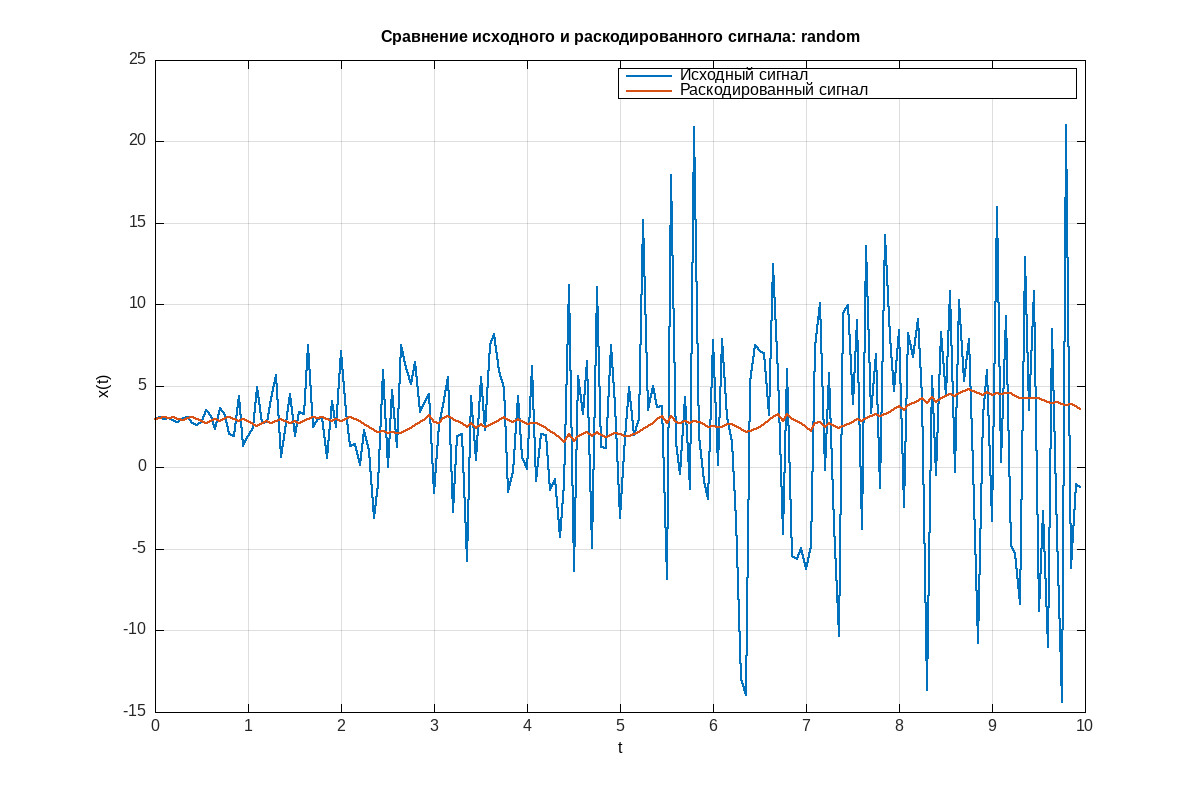
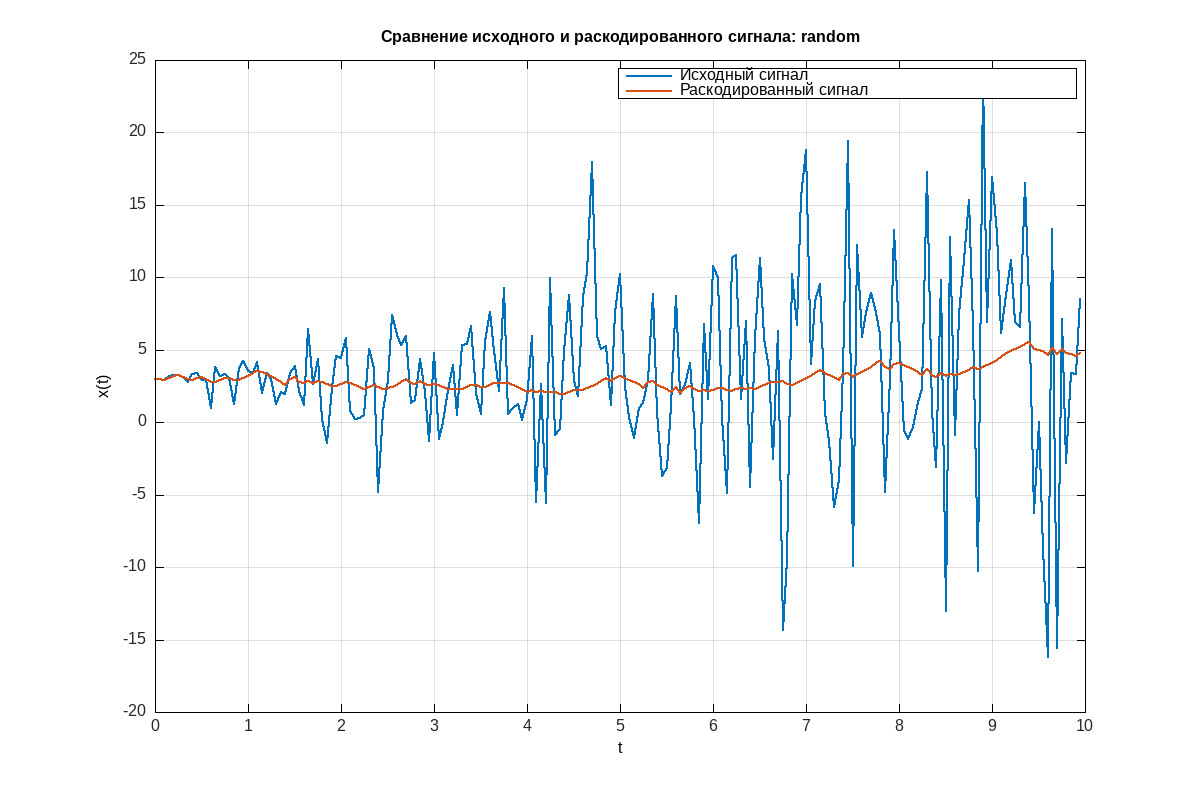
one sign is 1 bit

diff --git a/cpp/src/utils/decoder/decoder.cpp b/cpp/src/utils/decoder/decoder.cpp
@@ -14,50 +14,76 @@ Decoder::Decoder(
     : m_adaptive_config(a_adaptive_config),
     m_observer_config(a_observe_config){}
 
+std::int8_t Decoder::get_code(const EncodedData& data, const std::size_t index){
+    if (index >= data.code_count) {
+        throw std::out_of_range("Encoded code index is out of range");
+    }
+    const std::size_t byte_index = index / 8;
+    const std::size_t bit_offset = 7 - (index % 8);
+    if (byte_index >= data.codes.size()) {
+        throw std::invalid_argument("Packed codes contain fewer bytes than expected");
+    }
+    const std::uint8_t byte = data.codes[byte_index];
+    const bool positive = (byte & static_cast<std::uint8_t>(std::uint8_t{1} << bit_offset)) != 0;
+
+    return positive ? std::int8_t{1} : std::int8_t{-1};
+}
+
 [[nodiscard]] std::vector<double> Decoder::decode_grow_factor(const EncodedData& data) const{
+    const std::size_t expected_byte_count = (data.code_count + 7) / 8;
+    if (data.codes.size() != expected_byte_count) {
+        throw std::invalid_argument("Invalid packed codes size in decode_grow_factor");
+    }
     std::vector<double> result;
-    result.reserve(data.codes.size() + 1);
-    double cur = data.initial_value;
-    result.push_back(cur);
+    result.reserve(data.code_count + 1);
+    double current_value = data.initial_value;
+    result.push_back(current_value);
     AdaptiveStep step(m_adaptive_config);
-    for (const std::int8_t code: data.codes){
-        cur += static_cast<double>(code) * step.value();
-        result.push_back(cur);
+    for (std::size_t index = 0; index < data.code_count; ++index){
+        const std::int8_t code = get_code(data, index);
+        current_value += static_cast<double>(code) * step.value();
+        result.push_back(current_value);
         step.update_grow_factor(code);
     }
     return result;
 }
 
 [[nodiscard]] std::vector<double> Decoder::decode_fixed(const EncodedData& data) const{
+    const std::size_t expected_byte_count = (data.code_count + 7) / 8;
+    if (data.codes.size() != expected_byte_count) {
+        throw std::invalid_argument("Invalid packed codes size in decode_fixed");
+    }
     std::vector<double> result;
-    result.reserve(data.codes.size() + 1);
-    double cur = data.initial_value;
-    result.push_back(cur);
+    result.reserve(data.code_count + 1);
+    double current_value = data.initial_value;
+    result.push_back(current_value);
     AdaptiveStep step(m_adaptive_config);
-    for (const std::int8_t code: data.codes){
-        cur += static_cast<double>(code) * step.value();
-        result.push_back(cur);
+    for (std::size_t index = 0; index < data.code_count; ++index) {
+        const std::int8_t code = get_code(data, index);
+        current_value += static_cast<double>(code) * step.value();
+        result.push_back(current_value);
         step.update_fixed(code);
     }
     return result;
 }
 
-[[nodiscard]] std::vector<double> Decoder::decode_zooming(const EncodedData& data) const{
+[[nodiscard]] std::vector<double> Decoder::decode_zooming(const EncodedData& data) const {
+    const std::size_t expected_byte_count = (data.code_count + 7) / 8;
+    if (data.codes.size() != expected_byte_count) {
+        throw std::invalid_argument("Invalid packed codes size");
+    }
     std::vector<double> decoded_signal;
-    decoded_signal.reserve(data.codes.size() + 1);
+    decoded_signal.reserve(data.code_count + 1);
     ObserverConfig observer_config = m_observer_config;
     observer_config.initial_y = data.initial_value;
     SignalObserver observer(observer_config);
     AdaptiveStep adaptive_step(m_adaptive_config);
-
     decoded_signal.push_back(data.initial_value);
-    for (const std::int8_t code : data.codes) {
-        if (code != 1 && code != -1) {
-            throw std::invalid_argument("Code must be 1 or -1");
-        }
+    for (std::size_t index = 0; index < data.code_count; ++index){
+        const std::int8_t code = get_code(data, index);
         const double sigma = static_cast<double>(code);
-        const double orig_value = observer.value() + adaptive_step.value() * sigma;
-        decoded_signal.push_back(orig_value);
+        const double original_value = observer.value() + adaptive_step.value() * sigma;
+        decoded_signal.push_back(original_value);
         observer.update(code);
         adaptive_step.update_zooming(code);
     }

diff --git a/cpp/src/utils/coder/coder.cpp b/cpp/src/utils/coder/coder.cpp
@@ -12,39 +12,58 @@ Coder::Coder(
     : m_adaptive_config(a_adaptive_config),
     m_observer_config(a_observer_config){}
 
-[[nodiscard]] EncodedData Coder::encode_grow_factor(const std::vector<double>& signal) const{    
+void Coder::append_code(EncodedData& encoded, bool positive){
+    const std::size_t bit_index = encoded.code_count;
+    const std::size_t byte_index = bit_index / 8;
+    const std::size_t bit_offset = 7 - (bit_index % 8);
+    if (byte_index == encoded.codes.size()) {
+        encoded.codes.push_back(0);
+    }
+    if (positive) {
+        encoded.codes[byte_index] |= static_cast<std::uint8_t>(1U << bit_offset);
+    }
+    ++encoded.code_count;
+}
+
+[[nodiscard]] EncodedData Coder::encode_grow_factor(const std::vector<double>& signal) const{
     EncodedData result;
-    if (signal.empty()){
+    if (signal.empty()) {
         return result;
     }
     result.initial_value = signal.front();
-    result.codes.reserve((int)signal.size() - 1);
-    double cur = signal.front();
+    const std::size_t code_count = signal.size() - 1;
+    const std::size_t byte_count = (code_count + 7) / 8;
+    result.codes.reserve(byte_count);
+    double current_value = signal.front();
     AdaptiveStep step(m_adaptive_config);
-    for (std::size_t i = 1; i < signal.size(); ++i){
-        const double error = signal[i] - cur;
-        const std::int8_t code = (error >= 0.0 ? 1 : -1);
-        cur += static_cast<double>(code) * step.value();
-        result.codes.push_back(code);
+    for (std::size_t index = 1; index < signal.size(); ++index){
+        const double error = signal[index] - current_value;
+        const bool positive = error >= 0.0;
+        const std::int8_t code = positive ? std::int8_t{1} : std::int8_t{-1};
+        append_code(result, positive);
+        current_value += static_cast<double>(code) * step.value();
         step.update_grow_factor(code);
     }
     return result;
 }
 
-[[nodiscard]] EncodedData Coder::encode_fixed(const std::vector<double>& signal) const{    
+[[nodiscard]] EncodedData Coder::encode_fixed(const std::vector<double>& signal) const{
     EncodedData result;
-    if (signal.empty()){
+    if (signal.empty()) {
         return result;
     }
     result.initial_value = signal.front();
-    result.codes.reserve((int)signal.size() - 1);
-    double cur = signal.front();
+    const std::size_t code_count = signal.size() - 1;
+    const std::size_t byte_count = (code_count + 7) / 8;
+    result.codes.reserve(byte_count);
+    double current_value = signal.front();
     AdaptiveStep step(m_adaptive_config);
-    for (std::size_t i = 1; i < signal.size(); ++i){
-        const double error = signal[i] - cur;
-        const std::int8_t code = (error >= 0.0 ? 1 : -1);
-        cur += static_cast<double>(code) * step.value();
-        result.codes.push_back(code);
+    for (std::size_t index = 1; index < signal.size(); ++index){
+        const double error = signal[index] - current_value;
+        const bool positive = error >= 0.0;
+        const std::int8_t code = positive ? std::int8_t{1} : std::int8_t{-1};
+        append_code(result, positive);
+        current_value += static_cast<double>(code) * step.value();
         step.update_fixed(code);
     }
     return result;
@@ -56,16 +75,18 @@ Coder::Coder(
         return encoded;
     }
     encoded.initial_value = signal.front();
-    encoded.codes.reserve(signal.size() - 1);
+    const std::size_t code_count = signal.size() - 1;
+    const std::size_t byte_count = (code_count + 7) / 8;
+    encoded.codes.reserve(byte_count);
     ObserverConfig observer_config = m_observer_config;
     observer_config.initial_y = encoded.initial_value;
     SignalObserver observer(observer_config);
     AdaptiveStep adaptive_step(m_adaptive_config);
     for (std::size_t index = 1; index < signal.size(); ++index) {
         const double error = signal[index] - observer.value();
-        const std::int8_t code = error >= 0.0 ? std::int8_t{1} : std::int8_t{-1};
-        encoded.codes.push_back(code);
-        // const double quantized_error = adaptive_step.value() * static_cast<double>(code);
+        const bool positive = error >= 0.0;
+        append_code(encoded, positive);
+        const std::int8_t code = positive ? std::int8_t{1} : std::int8_t{-1};
         observer.update(code);
         adaptive_step.update_zooming(code);
     }

diff --git a/cpp/src/utils/decoder/image_decoder.cpp b/cpp/src/utils/decoder/image_decoder.cpp
@@ -29,22 +29,15 @@ ImageMatrix ImageDecoder::decode_channel_zooming(const EncodedImage& image) cons
     ImageMatrix decoded_channel;
     decoded_channel.reserve(image.height);
     for (const EncodedData& encoded_row : image.rows) {
-        std::vector<double> row =
-            row_decoder.decode_zooming(encoded_row);
-
+        std::vector<double> row = row_decoder.decode_zooming(encoded_row);
         if (row.size() != image.width) {
-            throw std::runtime_error(
-                "Decoded row width does not match image width"
-            );
+            throw std::runtime_error("Decoded row width does not match image width");
         }
-
         for (double& pixel : row) {
             pixel = std::clamp(pixel, 0.0, 1.0);
         }
-
         decoded_channel.push_back(std::move(row));
     }
-
     return decoded_channel;
 }
 
@@ -64,22 +57,15 @@ ImageMatrix ImageDecoder::decode_channel_fixed(const EncodedImage& image) const 
     ImageMatrix decoded_channel;
     decoded_channel.reserve(image.height);
     for (const EncodedData& encoded_row : image.rows) {
-        std::vector<double> row =
-            row_decoder.decode_fixed(encoded_row);
-
+        std::vector<double> row = row_decoder.decode_fixed(encoded_row);
         if (row.size() != image.width) {
-            throw std::runtime_error(
-                "Decoded row width does not match image width"
-            );
+            throw std::runtime_error("Decoded row width does not match image width");
         }
-
         for (double& pixel : row) {
             pixel = std::clamp(pixel, 0.0, 1.0);
         }
-
         decoded_channel.push_back(std::move(row));
     }
-
     return decoded_channel;
 }
 
@@ -99,22 +85,15 @@ ImageMatrix ImageDecoder::decode_channel_grow_factor(const EncodedImage& image) 
     ImageMatrix decoded_channel;
     decoded_channel.reserve(image.height);
     for (const EncodedData& encoded_row : image.rows) {
-        std::vector<double> row =
-            row_decoder.decode_grow_factor(encoded_row);
-
+        std::vector<double> row = row_decoder.decode_grow_factor(encoded_row);
         if (row.size() != image.width) {
-            throw std::runtime_error(
-                "Decoded row width does not match image width"
-            );
+            throw std::runtime_error("Decoded row width does not match image width");
         }
-
         for (double& pixel : row) {
             pixel = std::clamp(pixel, 0.0, 1.0);
         }
-
         decoded_channel.push_back(std::move(row));
     }
-
     return decoded_channel;
 }
 

diff --git a/cpp/src/data/encoded_image_size.hpp b/cpp/src/data/encoded_image_size.hpp
@@ -1,0 +1,20 @@
+#pragma once
+
+#include "encoded_image.hpp"
+
+namespace adaptive{
+
+std::size_t encoded_image_size_bytes(const EncodedImage& image) {
+    std::size_t total_size = 0;
+    for (const EncodedData& row : image.rows) {
+        total_size += sizeof(row.initial_value);
+        total_size += row.codes.size() * sizeof(std::int8_t);
+    }
+    return total_size;
+}
+
+std::size_t encoded_color_image_size_bytes(const EncodedColorImage& image) {
+    return encoded_image_size_bytes(image.blue) + encoded_image_size_bytes(image.green) + encoded_image_size_bytes(image.red);
+}
+
+} // namespace adaptive

diff --git a/cpp/src/drawing/drawer.cpp b/cpp/src/drawing/drawer.cpp
@@ -1,4 +1,5 @@
 #include "drawer.hpp"
+#include "data/encoded_image_size.hpp"
 
 namespace adaptive{
 
@@ -302,6 +303,9 @@ void Drawer::draw_image_zooming(const ColorImageMatrices& original_values){
 
     const auto encoded_values =
         coder.encode_zooming(original_values);
+
+    std::size_t total_encoded_size = encoded_color_image_size_bytes(encoded_values);
+    std::cerr << "\nTotal encoded size is : " << total_encoded_size << "\n\n";
 
     const auto decoded_values =
         decoder.decode_zooming(encoded_values);

diff --git a/cpp/src/utils/decoder/decoder.hpp b/cpp/src/utils/decoder/decoder.hpp
@@ -21,6 +21,8 @@ public:
     [[nodiscard]] std::vector<double> decode_zooming(const EncodedData& data) const;
 
 private:
+    [[nodiscard]] static std::int8_t get_code(const EncodedData& data, std::size_t index);
+
     AdaptiveConfig m_adaptive_config;
     ObserverConfig m_observer_config;
 };

diff --git a/cpp/src/utils/coder/coder.hpp b/cpp/src/utils/coder/coder.hpp
@@ -21,6 +21,8 @@ public:
     [[nodiscard]] EncodedData encode_zooming(const std::vector<double>& signal) const;
 
 private:
+    static void append_code(EncodedData& encoded, bool positive);
+
     AdaptiveConfig m_adaptive_config;
     ObserverConfig m_observer_config;
 };

diff --git a/cpp/src/data/encoded_data.hpp b/cpp/src/data/encoded_data.hpp
@@ -7,6 +7,7 @@ namespace adaptive{
 
 struct EncodedData{
     double initial_value = 0.0;
+    std::size_t code_count = 0;
     std::vector<std::int8_t> codes;
 };
 
